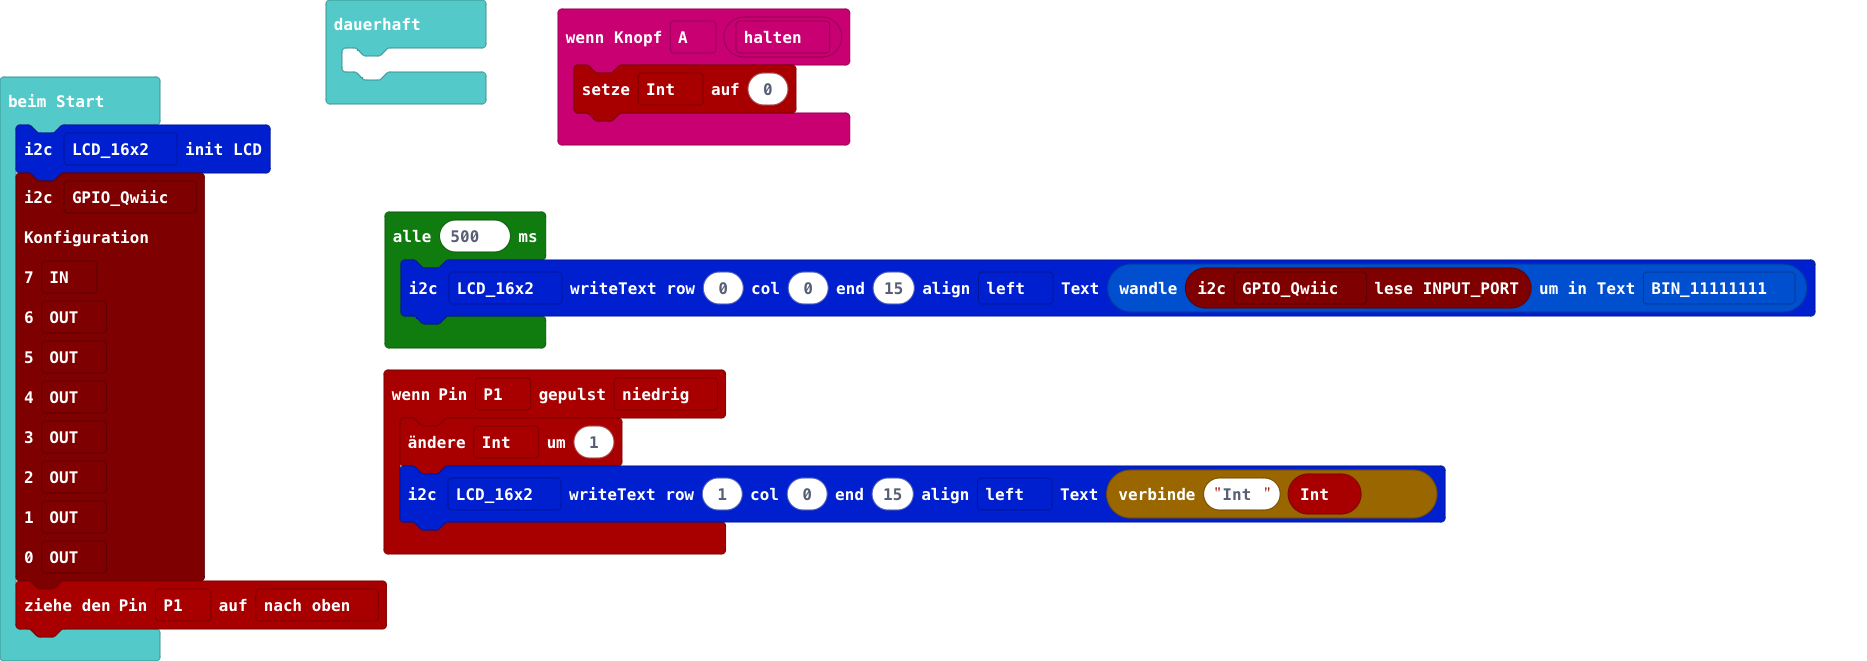
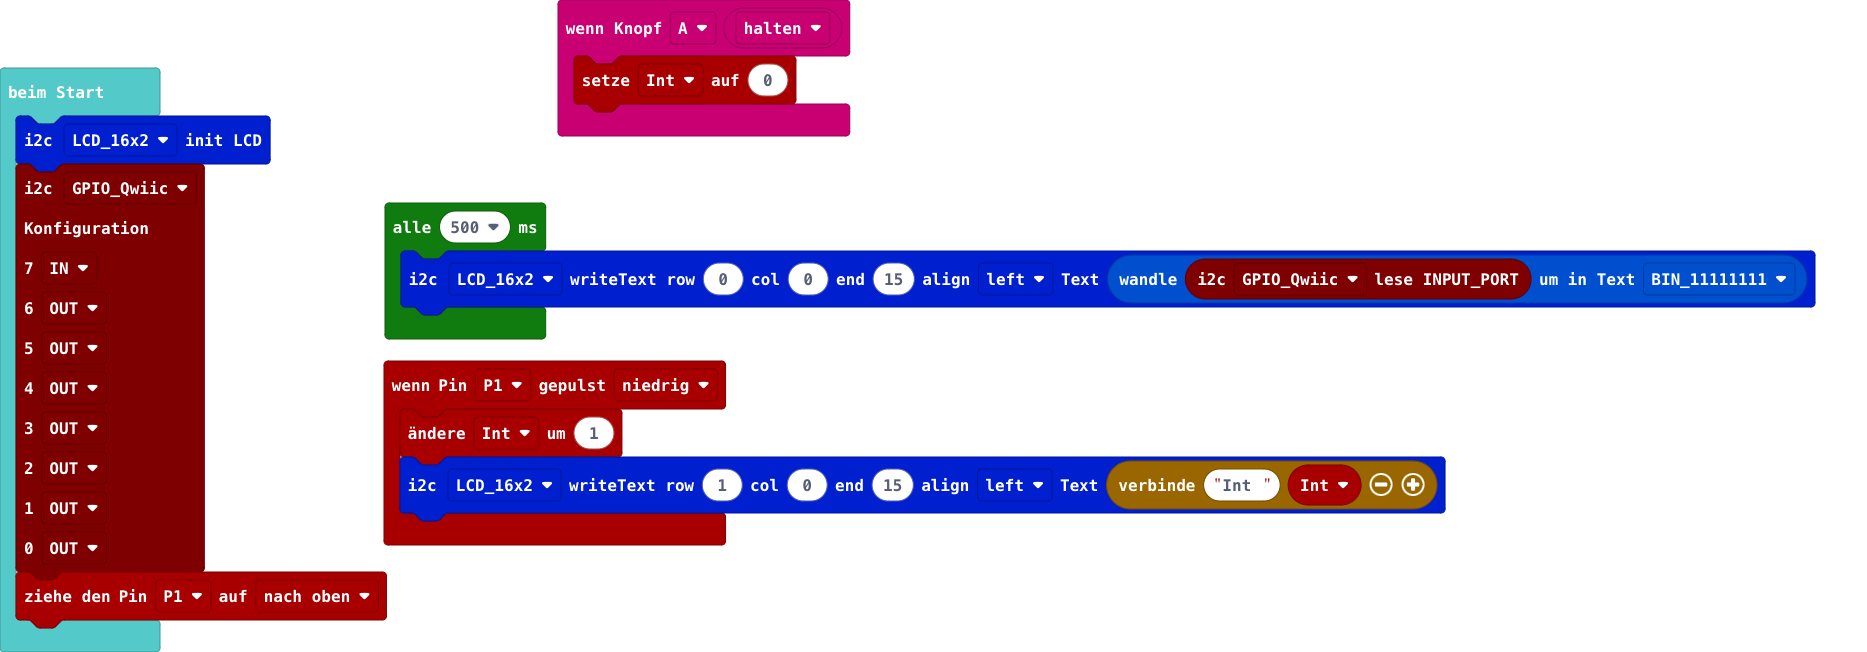
Aktualisiere main.blocks, main.ts

diff --git a/main.ts b/main.ts
@@ -22,6 +22,3 @@ pins.setPull(DigitalPin.P1, PinPullMode.PullUp)
 loops.everyInterval(500, function () {
     lcd16x2rgb.writeText(lcd16x2rgb.eADDR_LCD.LCD_16x2, 0, 0, 15, lcd16x2rgb.eAlign.left, bit.formatNumber(qwiicgpio.readINPUT_PORT(qwiicgpio.eADDR.GPIO_Qwiic), bit.eLength.BIN_11111111))
 })
-basic.forever(function () {
-	
-})
